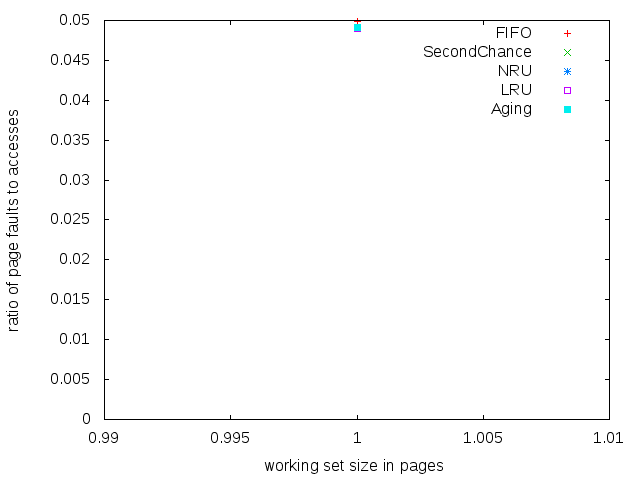
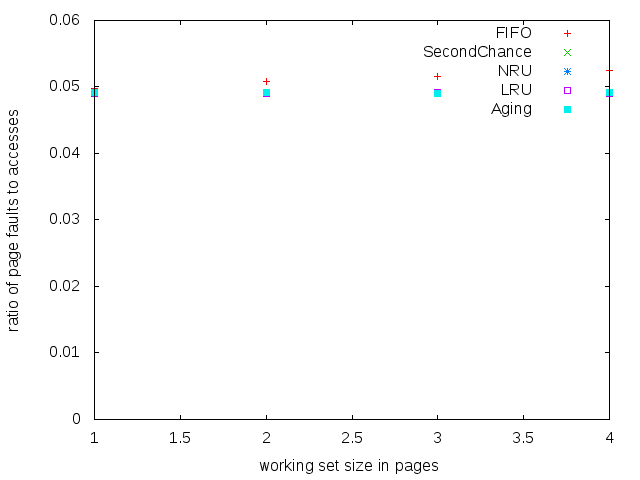
pr

diff --git a/pra-sim/source/diagram1.tex b/pra-sim/source/diagram1.tex
@@ -75,24 +75,22 @@
   \begin{picture}(7200.00,5040.00)%
     \gplgaddtomacro\gplbacktext{%
       \csname LTb\endcsname%
-      \put(1210,704){\makebox(0,0)[r]{\strut{} 0}}%
-      \put(1210,1111){\makebox(0,0)[r]{\strut{} 0.005}}%
-      \put(1210,1518){\makebox(0,0)[r]{\strut{} 0.01}}%
-      \put(1210,1925){\makebox(0,0)[r]{\strut{} 0.015}}%
-      \put(1210,2332){\makebox(0,0)[r]{\strut{} 0.02}}%
-      \put(1210,2740){\makebox(0,0)[r]{\strut{} 0.025}}%
-      \put(1210,3147){\makebox(0,0)[r]{\strut{} 0.03}}%
-      \put(1210,3554){\makebox(0,0)[r]{\strut{} 0.035}}%
-      \put(1210,3961){\makebox(0,0)[r]{\strut{} 0.04}}%
-      \put(1210,4368){\makebox(0,0)[r]{\strut{} 0.045}}%
-      \put(1210,4775){\makebox(0,0)[r]{\strut{} 0.05}}%
-      \put(1342,484){\makebox(0,0){\strut{} 0.99}}%
-      \put(2707,484){\makebox(0,0){\strut{} 0.995}}%
-      \put(4073,484){\makebox(0,0){\strut{} 1}}%
-      \put(5438,484){\makebox(0,0){\strut{} 1.005}}%
-      \put(6803,484){\makebox(0,0){\strut{} 1.01}}%
+      \put(1078,704){\makebox(0,0)[r]{\strut{} 0}}%
+      \put(1078,1383){\makebox(0,0)[r]{\strut{} 0.01}}%
+      \put(1078,2061){\makebox(0,0)[r]{\strut{} 0.02}}%
+      \put(1078,2740){\makebox(0,0)[r]{\strut{} 0.03}}%
+      \put(1078,3418){\makebox(0,0)[r]{\strut{} 0.04}}%
+      \put(1078,4097){\makebox(0,0)[r]{\strut{} 0.05}}%
+      \put(1078,4775){\makebox(0,0)[r]{\strut{} 0.06}}%
+      \put(1210,484){\makebox(0,0){\strut{} 1}}%
+      \put(2142,484){\makebox(0,0){\strut{} 1.5}}%
+      \put(3074,484){\makebox(0,0){\strut{} 2}}%
+      \put(4007,484){\makebox(0,0){\strut{} 2.5}}%
+      \put(4939,484){\makebox(0,0){\strut{} 3}}%
+      \put(5871,484){\makebox(0,0){\strut{} 3.5}}%
+      \put(6803,484){\makebox(0,0){\strut{} 4}}%
       \put(176,2739){\rotatebox{-270}{\makebox(0,0){\strut{}ratio of page faults to accesses}}}%
-      \put(4072,154){\makebox(0,0){\strut{}working set size in pages}}%
+      \put(4006,154){\makebox(0,0){\strut{}working set size in pages}}%
     }%
     \gplgaddtomacro\gplfronttext{%
       \csname LTb\endcsname%

diff --git a/pra-sim/source/makediagram1.py b/pra-sim/source/makediagram1.py
@@ -17,7 +17,7 @@ for i in [algorithms.FIFO, algorithms.SecondChance, algorithms.NRU,
     # List of tupels of (ws_length, page_faults_to_accesses_ratio).
     ratios = []
     #for j in range(1, 61):
-    for j in range(1, 2):
+    for j in range(1, 5):
         mms = i(64)    # Instantiate.
         mms.shift = 200
         mms.firstbit = 1 << 7
